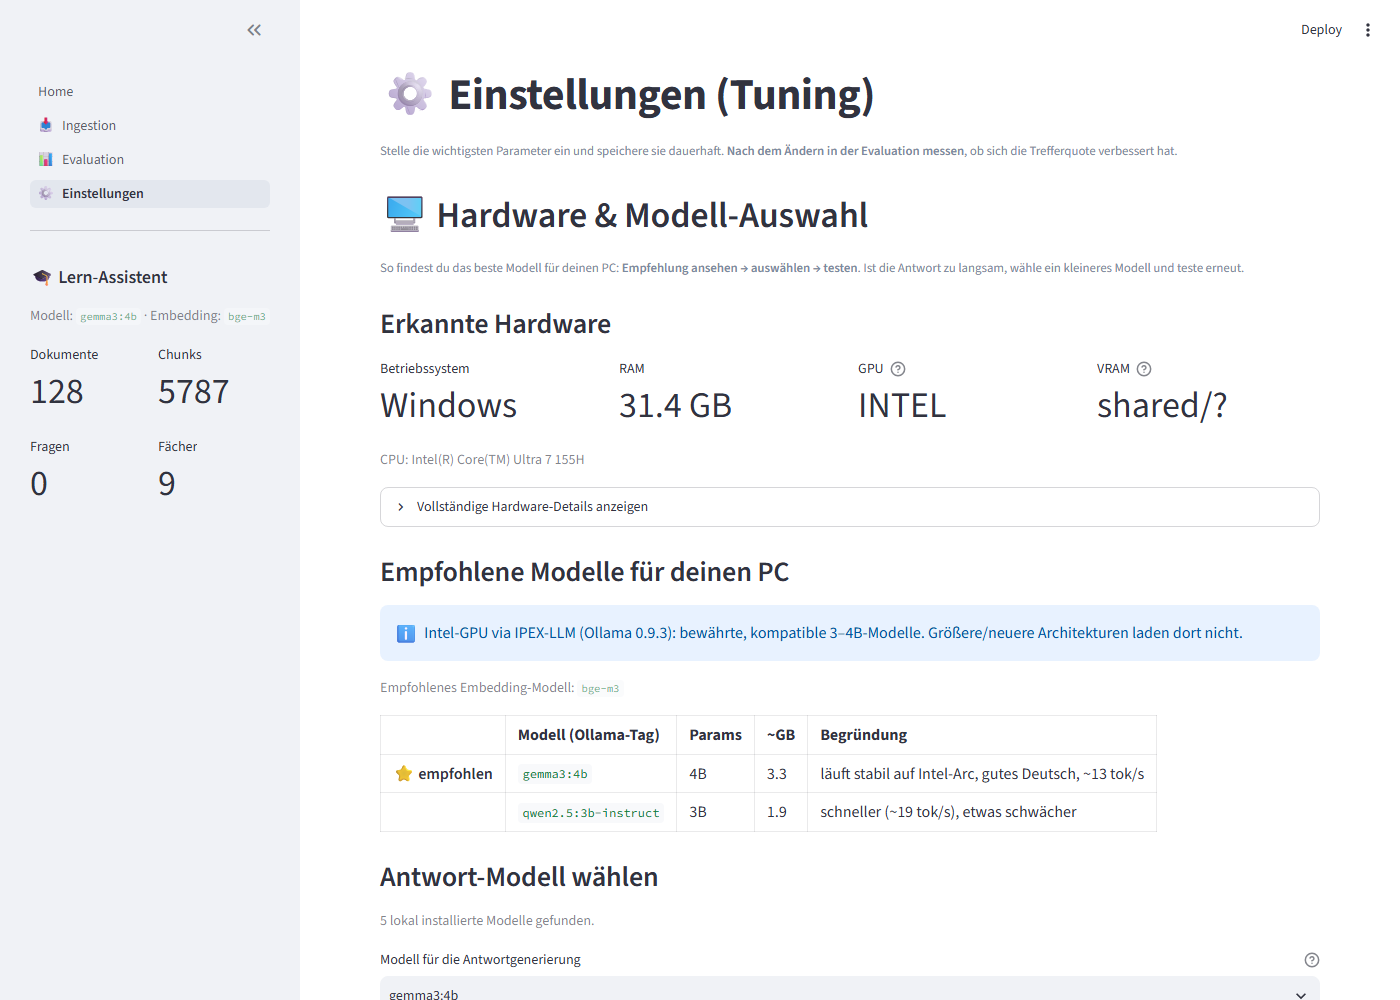
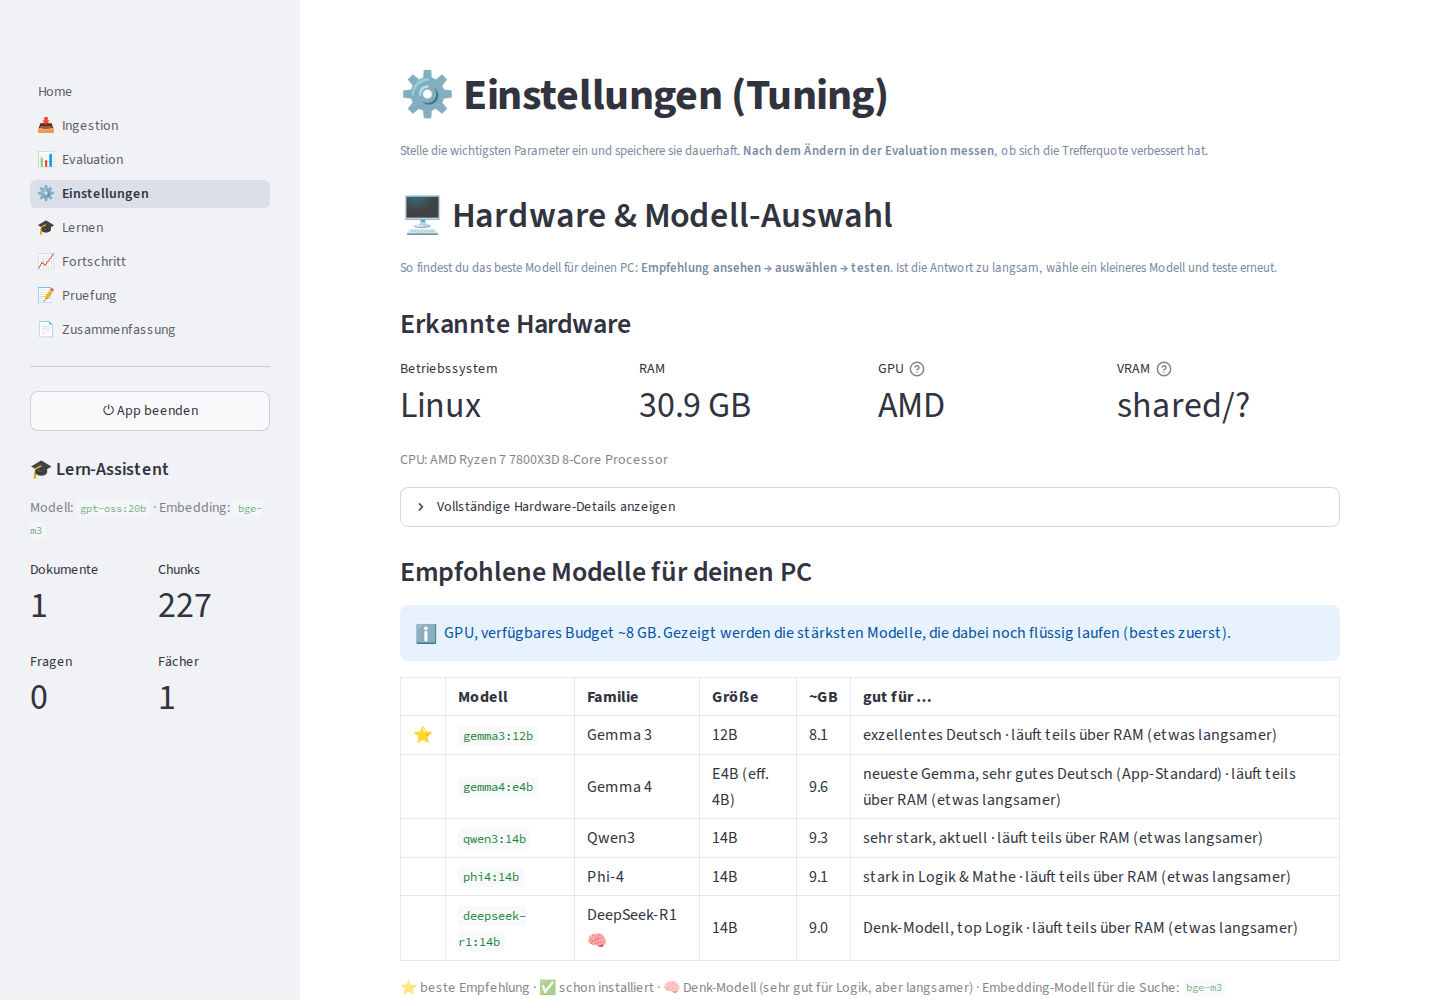
README: aktuelle Screenshots + neue Features (Fortschritt/Probeklausur/Zusammenfassung/Autoren-Modell)
Frische Screenshots der aktuellen UI (Home, Lernen, Fortschritt, Zusammenfassung, Einstellungen, Probeklausur) via headless Playwright; veraltete chat.png/evaluation.png entfernt. Funktionsliste um Fortschritt/Analytics, Probeklausur und 'Zusammenfassung schreiben' (LLM_MODEL_AUTHOR) ergaenzt.

diff --git a/README.md b/README.md
@@ -84,6 +84,16 @@ eigenen Kurs- und Klausurunterlagen bleiben ausschließlich auf deinem Rechner:
   werden Lernkarten geerntet und mit verteiltem Wiederholen (wie bei Anki) geplant.
   Aktives Abfragen (*Gewusst / Halb / Nicht gewusst*) – **komplett offline, ohne
   LLM zur Laufzeit**. Der wirksamste Klausur-Hebel.
+- **📈 Lernstand & Klausur-Planung:** Die Seite **Fortschritt** zeigt aus deinen echten
+  Wiederholungen Mastery, Vergessenskurve, Streak, Dauerpatzer (*Leeches*) und eine
+  geschätzte **Klausur-Bereitschaft**; mit Klausurterminen priorisiert das System nach
+  *Nähe × Wissenslücke × Gewicht* (inkl. `.ics`-Export).
+- **📝 Probeklausur:** getimte Prüfungssimulation aus deinen Karten (Tippen & Benoten,
+  Multiple Choice, Lückentext).
+- **📄 Zusammenfassung schreiben:** erzeugt aus einem Dokument/Fach eine strukturierte,
+  **gegroundete** Markdown-Zusammenfassung – mit einem separat wählbaren, großen
+  **Autoren-Modell** (`LLM_MODEL_AUTHOR`), während der interaktive Chat auf einem
+  schnellen Modell bleibt (kein Modell-Wechsel mitten in der Antwort).
 - **Hybrid-Retrieval für hohe Trefferquote:** Semantische Suche (dense, `bge-m3`)
   **plus** deutsche Keyword-Suche (BM25 mit Snowball-Stemming & Stoppwörtern),
   vereint per **Reciprocal Rank Fusion (RRF)** und final durch einen
@@ -115,17 +125,29 @@ eigenen Kurs- und Klausurunterlagen bleiben ausschließlich auf deinem Rechner:
 
 ## 📸 Screenshots
 
-**Chat: Fragen stellen, belegte Antworten mit Quellenangaben**
+**Chat – Fragen an deine Unterlagen, belegte Antworten mit Quellenangaben**
 
-![Chat-Oberfläche](docs/img/chat.png)
+![Chat / Home](docs/img/home.png)
 
-**Hardware-Erkennung & Modell-Auswahl: automatische Empfehlung + Benchmark**
+**🎓 Lernen – Karteikarten mit Spaced Repetition (SM-2) und vier Übungsmodi: Aufdecken, Tippen & Benoten, Lückentext, Multiple Choice**
+
+![Karteikarten & Spaced Repetition](docs/img/lernen.png)
+
+**📈 Fortschritt – objektiver Lernstand aus echten Wiederholungen: Mastery, Streak, Klausur-Bereitschaft, Leech-Erkennung und Klausurtermin-Priorisierung**
+
+![Fortschritt & Analytics](docs/img/fortschritt.png)
+
+**📄 Zusammenfassung schreiben – gegroundete Markdown-Zusammenfassung je Dokument/Fach (großes „Autoren"-Modell, nur aus deinen Inhalten)**
+
+![Zusammenfassung schreiben](docs/img/zusammenfassung.png)
+
+**⚙️ Einstellungen – automatische Hardware-Erkennung & Modellwahl, tok/s-Benchmark und alle Tuning-Parameter**
 
 ![Einstellungen & Modellwahl](docs/img/settings.png)
 
-**Evaluation: Trefferquote messen und nachjustieren**
+**📝 Probeklausur – getimte Prüfungssimulation aus deinen Karten**
 
-![Evaluation](docs/img/evaluation.png)
+![Probeklausur](docs/img/pruefung.png)
 
 ---
 